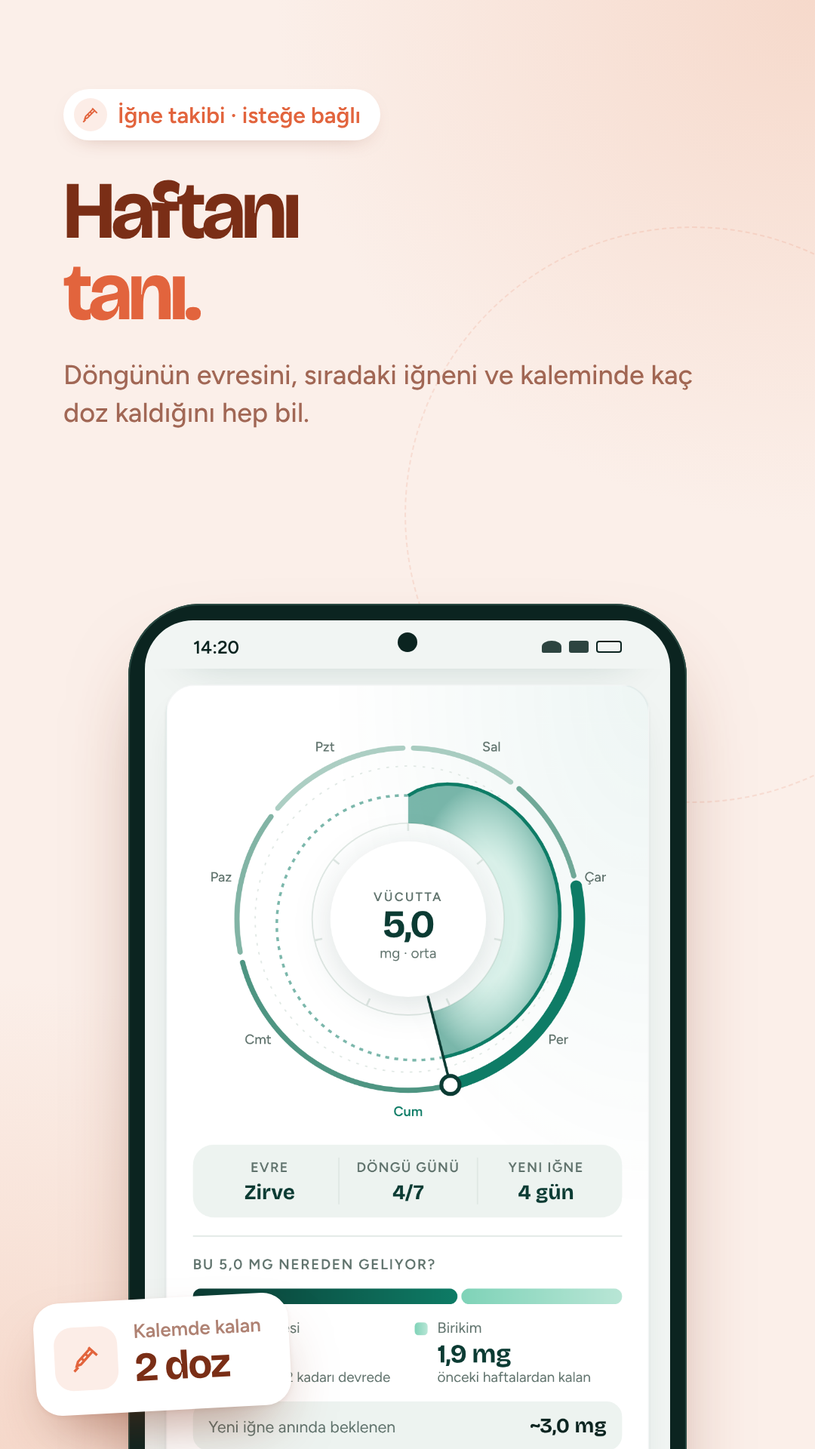
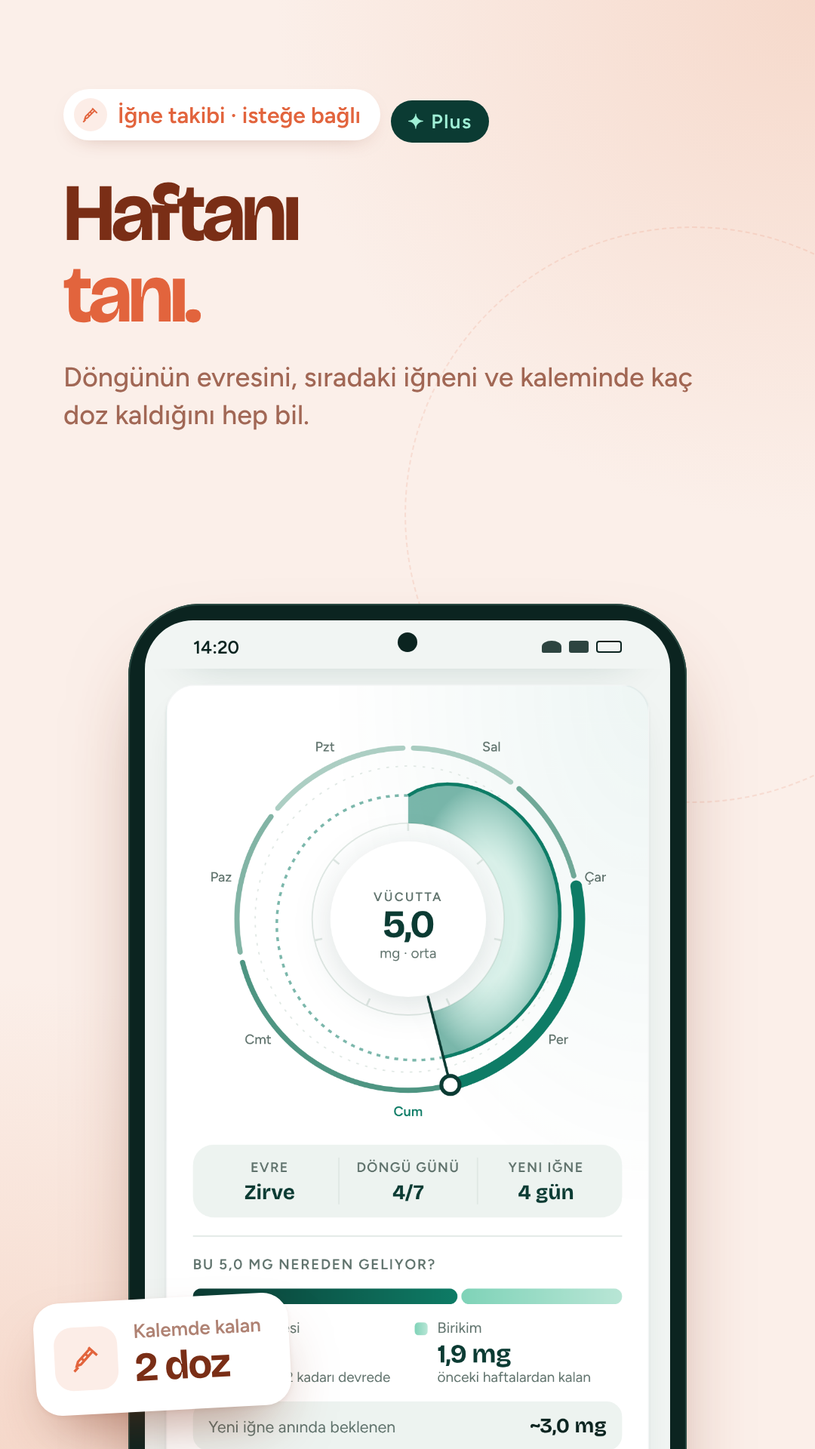
Plus: ilk 14 gün tüm özellikler açık; döngüde mg, birikim ve evre ipuçları Plus; tanıtımda Plus işareti
Claude-Session: https://claude.ai/code/session_01ERT3WxHgY3bECbR2LgZad1

diff --git a/www/index.html b/www/index.html
@@ -899,7 +899,12 @@ const PLUS_ID="hafif_plus";
 const PLANS=[{k:"aylik",n:"Aylık",p:"99,99 ₺",m:"/ ay",sub:"her ay yenilenir",mo:1},{k:"uc-aylik",n:"3 aylık",p:"229,99 ₺",m:"76,66 ₺ / ay",sub:"%23 tasarruf",mo:3},{k:"yillik",n:"Yıllık",p:"499,99 ₺",m:"41,67 ₺ / ay",sub:"%58 tasarruf",mo:12,best:true}];
 const NATIVE=()=>!!(window.Capacitor&&window.Capacitor.isNativePlatform&&window.Capacitor.isNativePlatform());
 let plusOwned=(()=>{try{return localStorage.getItem("hf-plus")==="1"}catch(e){return false}})();
-function PLUS(){return NATIVE()?plusOwned:!S.profile.pvFree}
+/* ilk 14 gün Plus özellikleri herkese açık (ödeme bilgisi istenmez) */
+const TRIAL_DAYS=14;
+function plusSince(){const P=S.profile;if(!P.since)P.since=P.disclaimer||today();return P.since}
+const trialLeft=()=>Math.max(0,TRIAL_DAYS-diffDays(plusSince(),today()));
+function PLUS(){return NATIVE()?(plusOwned||trialLeft()>0):!S.profile.pvFree}
+function trialEndCheck(){const P=S.profile;if(!NATIVE()||plusOwned||!P.onboarded||trialLeft()>0||P.trialEndSeen)return;P.trialEndSeen=today();save();setTimeout(()=>{if(!$("#onb")&&!$("#celeb"))openPaywall("trialEnd")},1800)}
 const IAP=()=>window.CdvPurchase&&window.CdvPurchase.store||null;
 function iapInit(){
   const st=IAP();if(!st||st.__hf)return;st.__hf=1;const C=window.CdvPurchase;
@@ -930,9 +935,10 @@ function openPaywall(src){
   closePaywall();if(PLUS()&&NATIVE())return;iapInit();
   const d=document.createElement("div");d.id="paywall";d.setAttribute("role","dialog");d.setAttribute("aria-modal","true");d.setAttribute("aria-label","Hafif Plus");
   const c=pwCta();
-  d.innerHTML=`<div class="pwtop"><button type="button" class="pwx" id="pwX" aria-label="Kapat">✕</button><span class="pwk">✦ Hafif Plus</span><h1>Kilo vermenin<br>en hafif yolu.</h1><p>Tüm grafikler, doktor raporu ve yan etki analizi tek abonelikte.</p></div>
+  d.innerHTML=`<div class="pwtop"><button type="button" class="pwx" id="pwX" aria-label="Kapat">✕</button><span class="pwk">✦ Hafif Plus</span><h1>Kilo vermenin<br>en hafif yolu.</h1><p>${src==="trialEnd"?"14 günlük ücretsiz Plus dönemin bitti. Vücuttaki ilaç düzeyi, tüm grafikler ve doktor raporu için devam et.":"İlaç düzeyi, tüm grafikler, doktor raporu ve yan etki analizi tek abonelikte."}</p></div>
     <div class="pwb">
       <div class="pwf">
+        ${SHOTS()?`<div><i style="background:var(--shot-soft)">💉</i><span>Vücuttaki ilaç düzeyi<br><small>Tahmini mg, birikim ve tüm evrelerin ipuçları</small></span></div>`:""}
         <div><i style="background:var(--accent-soft)">📈</i><span>Kilo değişiminin tüm grafikleri<br><small>İğne, haftalık, trend, ilaç düzeyi ve yağ</small></span></div>
         <div><i style="background:var(--accent-soft)">📄</i><span>Doktor için PDF rapor<br><small>Kilo, doz, yan etki ve ölçüler tek dosyada</small></span></div>
         <div><i style="background:var(--shot-soft)">🧭</i><span>Yan etki analizi<br><small>Hangi gün, hangi belirti yoğunlaşıyor</small></span></div>
@@ -953,10 +959,12 @@ function openPaywall(src){
   $("#pwRestore").addEventListener("click",async()=>{const st=IAP();if(!st){toast(NATIVE()?"Google Play'e bağlanılamadı":"Bu görünümde satın alma yok");return}await st.restorePurchases().catch(()=>{});toast(st.owned(PLUS_ID)?"Hafif Plus geri yüklendi":"Bu hesapta etkin bir Hafif Plus aboneliği bulunamadı")});
   $("#pwManage").addEventListener("click",()=>{const st=IAP();if(st&&st.manageSubscriptions)st.manageSubscriptions().catch(()=>{});else window.open("https://play.google.com/store/account/subscriptions","_blank")});
 }
+document.addEventListener("click",e=>{const b=e.target.closest&&e.target.closest("[data-plus]");if(b){e.stopPropagation();e.preventDefault();openPaywall("kilit")}},true);
 const plock=(html,title,sub)=>`<div class="plock"><div class="pbl" aria-hidden="true">${html}</div><div class="pov"><b>${title}</b><span>${sub}</span><button type="button" class="plusbtn" data-plus>✦ Plus'a geç</button></div></div>`;
 function plusCard(){
+  if(NATIVE()&&!plusOwned&&trialLeft()>0) return `<button type="button" class="plcard" data-plus><span class="st">✦</span><span style="flex:1"><b>Plus özellikleri açık · ${trialLeft()} gün</b><small>İlk ${TRIAL_DAYS} gün her şey ücretsiz. Sonrası için abonelik seçeneklerine bak.</small></span><svg viewBox="0 0 24 24" width="18" height="18" fill="none" stroke="currentColor" stroke-width="2" stroke-linecap="round"><path d="M9 6l6 6-6 6"/></svg></button>`;
   if(PLUS()&&NATIVE()) return `<button type="button" class="plcard" id="plManage"><span class="st">✦</span><span style="flex:1"><b>Hafif Plus aktif</b><small>Teşekkürler! Aboneliğini Google Play'den yönetebilirsin.</small></span></button>`;
-  if(!NATIVE()) return `<div class="card" style="display:flex;flex-direction:column;gap:10px"><div><h2>Hafif Plus <span class="ptag">Önizleme</span></h2><span class="muted" style="font-size:13px">Claude'da tüm Plus özellikleri açık. Android'deki ücretsiz görünümü ve ödeme ekranını buradan deneyebilirsin.</span></div>
+  if(!NATIVE()) return `<div class="card" style="display:flex;flex-direction:column;gap:10px"><div><h2>Hafif Plus <span class="ptag">Önizleme</span></h2><span class="muted" style="font-size:13px">Claude'da tüm Plus özellikleri açık. Android'de ilk ${TRIAL_DAYS} gün her şey açık, sonra Plus alanları kilitlenir; o görünümü ve ödeme ekranını buradan deneyebilirsin.</span></div>
     <label class="sw" style="padding:2px 0"><span><b>Ücretsiz sürümü göster</b><small>kilitli alanlar bulanık görünür</small></span><input type="checkbox" id="pvFree" ${S.profile.pvFree?"checked":""}><i></i></label>
     <button type="button" class="btn ghost" data-plus>Ödeme ekranını aç</button></div>`;
   return `<button type="button" class="plcard" data-plus><span class="st">✦</span><span style="flex:1"><b>Hafif Plus'a geç</b><small>Tüm grafikler, doktor raporu ve yan etki analizi</small></span><svg viewBox="0 0 24 24" width="18" height="18" fill="none" stroke="currentColor" stroke-width="2" stroke-linecap="round"><path d="M9 6l6 6-6 6"/></svg></button>`;
@@ -987,7 +995,7 @@ function render(){
   if(!$("#mdefs").firstChild)$("#mdefs").innerHTML=medalDefs();
   const mt=$("#mtrack"),nn=mt&&mt.querySelector(".next");if(nn)mt.scrollLeft=nn.offsetLeft-mt.clientWidth/2+nn.clientWidth/2;
   if(tab==="ozet")setTimeout(checkCelebrate,450);
-  maybeOnboard();
+  maybeOnboard(); trialEndCheck();
   if(loaded&&HP())syncHealth();
   if(loaded&&LN()&&!remT)remQueue();
   if(tab==="adim"&&HP()&&!HOURS)syncHealth(true);
@@ -2322,7 +2330,7 @@ function nextTxt(X){if(!X.P.next)return "Sonraki iğne planlanmadı";const l=X.l
 function cycleHtml(vv){
   const cycV=vv||"kadran";
   const X=cycData(); if(!X) return "";
-  const {I,P,lv,peak,cur,state}=X, AN=c=>ANIM?c:"", sel=selPhase??I.cur, ph=PHASES[I.cur], mgT=n=>n.toLocaleString("tr-TR",{minimumFractionDigits:1,maximumFractionDigits:1});
+  const {I,P,lv,peak,cur,state}=X, AN=c=>ANIM?c:"", sel=selPhase??I.cur, ph=PHASES[I.cur], PL=PLUS(), mgT=n=>PL?n.toLocaleString("tr-TR",{minimumFractionDigits:1,maximumFractionDigits:1}):"–";
   let body="";
   if(cycV==="kadran"){
     const W=320,cx=160,cy=160,R0=74,AMP=44,span=I.tn-I.t0,ang=t=>-Math.PI/2+2*Math.PI*(t-I.t0)/span,pt=(t,r)=>[cx+Math.cos(ang(t))*r,cy+Math.sin(ang(t))*r];
@@ -2337,30 +2345,33 @@ function cycleHtml(vv){
       arcs+=`<g class="parc" data-cph="${i}"><path d="M${x1} ${y1} A${r} ${r} 0 ${lg} 1 ${x2} ${y2}" fill="none" stroke="transparent" stroke-width="22"/><path d="M${x1} ${y1} A${r} ${r} 0 ${lg} 1 ${x2} ${y2}" fill="none" stroke="${phCol(i)}" stroke-width="${i===sel?9:i===I.cur?6:4}" stroke-linecap="round" ${i===sel&&i!==I.cur?'stroke-opacity=".95"':""}/></g>`});
     const [hx,hy]=pt(P.now,R0+AMP+14),[ix,iy]=pt(P.now,R0-12);
     body=`<div class="kadran"><svg viewBox="0 0 ${W} ${W}" width="100%" style="max-width:320px;display:block;margin:0 auto" aria-hidden="true">
-      <defs><radialGradient id="kw" cx="50%" cy="50%" r="50%"><stop offset=".45" stop-color="#7FD3B8" stop-opacity=".25"/><stop offset="1" stop-color="#0E7C66" stop-opacity=".55"/></radialGradient></defs>
+      <defs><filter id="kbl"><feGaussianBlur stdDeviation="5"/></filter><radialGradient id="kw" cx="50%" cy="50%" r="50%"><stop offset=".45" stop-color="#7FD3B8" stop-opacity=".25"/><stop offset="1" stop-color="#0E7C66" stop-opacity=".55"/></radialGradient></defs>
       <circle cx="${cx}" cy="${cy}" r="${R0+AMP}" fill="none" stroke="var(--line)" stroke-dasharray="2 5"/>
       <circle cx="${cx}" cy="${cy}" r="${R0}" fill="none" stroke="var(--line)"/>
       ${arcs}${ticks}${labels}
-      <path class="${AN("fade")}" d="${area(pa)}" fill="url(#kw)"/>
+      <g ${PL?"":'filter="url(#kbl)" opacity=".55"'}><path class="${AN("fade")}" d="${area(pa)}" fill="url(#kw)"/>
       <path class="${AN("draw")}" pathLength="1" d="${line(pa)}" fill="none" stroke="var(--accent)" stroke-width="2.6" stroke-linejoin="round"/>
-      ${fu.length?`<path d="${line(fu)}" fill="none" stroke="var(--accent)" stroke-width="2" stroke-dasharray="3 4" opacity=".55"/>`:""}
+      ${fu.length?`<path d="${line(fu)}" fill="none" stroke="var(--accent)" stroke-width="2" stroke-dasharray="3 4" opacity=".55"/>`:""}</g>
       <line x1="${ix}" y1="${iy}" x2="${hx}" y2="${hy}" stroke="var(--head)" stroke-width="2" stroke-linecap="round"/>
       <circle cx="${hx}" cy="${hy}" r="7" fill="var(--surface)" stroke="var(--head)" stroke-width="3"/>
       <circle cx="${cx}" cy="${cy}" r="${R0-14}" fill="var(--surface)" style="filter:drop-shadow(0 6px 14px rgba(11,59,51,.14))"/>
-      <text x="${cx}" y="${cy-14}" text-anchor="middle" font-size="9.5" letter-spacing="1.4" font-weight="700" fill="var(--muted)" font-family="Figtree, sans-serif">VÜCUTTA</text>
+      ${PL?`<text x="${cx}" y="${cy-14}" text-anchor="middle" font-size="9.5" letter-spacing="1.4" font-weight="700" fill="var(--muted)" font-family="Figtree, sans-serif">VÜCUTTA</text>
       <text x="${cx}" y="${cy+14}" text-anchor="middle" font-size="30" font-weight="700" letter-spacing="-1" fill="var(--head)" font-family="Bricolage Grotesque, sans-serif">${mgT(cur)}</text>
-      <text x="${cx}" y="${cy+30}" text-anchor="middle" font-size="11" fill="var(--muted)" font-family="Figtree, sans-serif">mg · ${state.toLocaleLowerCase("tr-TR")}</text>
+      <text x="${cx}" y="${cy+30}" text-anchor="middle" font-size="11" fill="var(--muted)" font-family="Figtree, sans-serif">mg · ${state.toLocaleLowerCase("tr-TR")}</text>`:`<text x="${cx}" y="${cy-12}" text-anchor="middle" font-size="9.5" letter-spacing="1.4" font-weight="700" fill="var(--muted)" font-family="Figtree, sans-serif">EVRE</text>
+      <text x="${cx}" y="${cy+12}" text-anchor="middle" font-size="22" font-weight="700" letter-spacing="-.5" fill="var(--head)" font-family="Bricolage Grotesque, sans-serif">${ph.k}</text>
+      <g data-plus style="cursor:pointer"><rect x="${cx-34}" y="${cy+20}" width="68" height="20" rx="10" fill="rgba(201,160,74,.16)"/><text x="${cx}" y="${cy+34}" text-anchor="middle" font-size="10" font-weight="700" letter-spacing=".6" fill="#B08A35" font-family="Figtree, sans-serif">✦ mg · PLUS</text></g>`}
     </svg></div>
     <div class="cinfo"><div><span>Evre</span><b>${ph.k}</b></div><div><span>Döngü günü</span><b>${Math.min(I.days,diffDays(P.last.date,today())+1)}/${I.days}</b></div><div><span>Yeni iğne</span><b>${X.left==null?"–":X.left>1?X.left+" gün":X.left===1?"Yarın":"Bugün"}</b></div></div>
     ${(()=>{const dose=doseMg(P.last),fl=one(dose,(P.now-shotTs(P.last))/864e5),rest=Math.max(0,cur-fl),tot=Math.max(.01,cur),a=fl/tot*100,act=dose?Math.round(fl/dose*100):0;
-      return `<div class="mix"><span class="eyebrow">Bu ${mgT(cur)} mg nereden geliyor?</span>
+      const mixH=`<div class="mix"><span class="eyebrow">Bu ${mgT(cur)} mg nereden geliyor?</span>
         <div class="mixbar" role="img" aria-label="Son iğneden ${mgT(fl)} mg, öncekilerden ${mgT(rest)} mg"><i class="m1 ${AN("gx")}" style="width:${a}%"></i><i class="m2 ${AN("gx")}" style="width:${100-a}%;animation-delay:.15s"></i></div>
         <div class="mixl">
           <div><i class="m1"></i><div><span>${fmtShort(P.last.date)} iğnesi</span><b>${mgT(fl)} mg</b><em>${esc(P.last.dose??"?")} mg'ın %${act} kadarı devrede</em></div></div>
           <div><i class="m2"></i><div><span>Birikim</span><b>${mgT(rest)} mg</b><em>önceki haftalardan kalan</em></div></div>
         </div>
         ${X.before!=null?`<div class="mixn"><span>Yeni iğne anında beklenen</span><b>~${mgT(X.before)} mg</b></div>`:""}
-      </div>
+      </div>`;
+      return (PL?mixH:plock(mixH.replace(/–/g,"3,1"),"Vücuttaki ilaç düzeyi Plus'ta","Tahmini mg'ı, son iğnenin ve birikimin payını, yeni iğnede beklenen düzeyi gör."))+`
       <details class="how"><summary>Hesap mantığı</summary>
         <p>Hafif her iğneyi ayrı ayrı izler ve hepsini toplar. Her doz kana yavaşça karışır, yaklaşık 36 saatte en yüksek noktasına ulaşır, sonra her 5 günde yarıya iner. Eski dozlar tamamen sıfırlanmadığı için haftalar boyunca küçük bir birikim oluşur.</p>
         <p>Rakamlar bir ortalamaya dayanan tahmindir, kan tahlili sonucu değildir. Kadrandaki kesikli çizgi, yeni iğneyi planlanan gün ve aynı dozla yaparsan beklenen yolu gösterir.</p></details>`})()}`;
@@ -2372,7 +2383,7 @@ function cycleHtml(vv){
       if(i===I.cur)band+=`<text x="${(a+b)/2}" y="${H-8}" text-anchor="middle" font-size="10.5" font-weight="700" fill="var(--head)" font-family="Figtree, sans-serif">${p.k}</text>`});
     const shots=P.past.concat(P.next?[P.next]:[]).filter(s=>shotTs(s)>=t0&&shotTs(s)<=t1).map(s=>{const X=x(shotTs(s)),fut=shotTs(s)>P.now;return `<g transform="translate(${X} ${H-B+4})"><path d="M0 -5 L5 0 L0 5 L-5 0Z" fill="${fut?"var(--surface)":"var(--head)"}" stroke="var(--head)" stroke-width="1.5"/></g>`}).join("");
     const nx=x(P.now);
-    body=`<div class="gtop"><div><span class="eyebrow">İlaç dalgası</span><div class="gstate">${state}<small>${mgT(cur)} mg</small></div></div><div class="gnext"><span>Sonraki iğne</span><b>${X.left==null?"–":X.left>1?X.left+" gün":X.left===1?"Yarın":"Bugün"}</b><em>${P.next?fmtShort(P.next.date)+" "+shotTime(P.next):""}</em></div></div>
+    body=`<div class="gtop"><div><span class="eyebrow">İlaç dalgası</span><div class="gstate">${state}${PL?`<small>${mgT(cur)} mg</small>`:""}</div></div><div class="gnext"><span>Sonraki iğne</span><b>${X.left==null?"–":X.left>1?X.left+" gün":X.left===1?"Yarın":"Bugün"}</b><em>${P.next?fmtShort(P.next.date)+" "+shotTime(P.next):""}</em></div></div>
       <svg class="chart" viewBox="0 0 ${W} ${H}" aria-hidden="true" style="overflow:visible"><defs><linearGradient id="gw" x1="0" y1="0" x2="0" y2="1"><stop offset="0" stop-color="#2BB38F" stop-opacity=".45"/><stop offset="1" stop-color="#2BB38F" stop-opacity="0"/></linearGradient>
         <linearGradient id="gn" x1="0" y1="0" x2="0" y2="1"><stop offset="0" stop-color="#0B3B33" stop-opacity="0"/><stop offset=".3" stop-color="#0B3B33" stop-opacity=".9"/><stop offset="1" stop-color="#0B3B33" stop-opacity="0"/></linearGradient></defs>
         <line x1="0" x2="${W}" y1="${H-B+4}" y2="${H-B+4}" stroke="var(--line)"/>
@@ -2389,9 +2400,9 @@ function cycleHtml(vv){
     for(let i=0;i<nd;i++){const a=I.t0+i*864e5,b=a+864e5;let mx=0;for(let k=0;k<=12;k++)mx=Math.max(mx,lv(a+(b-a)*k/12));
       const mid=(a+b)/2,phi=I.ends.findIndex(e=>(mid-I.t0)/864e5<e);cols.push({a,mx,ph:phi<0?5:phi,isT:ymd(a)===today()||ymd(b-1)===today()&&P.now>=a&&P.now<b,fut:a>P.now,past:b<=P.now})}
     const H=130;
-    body=`<div class="gtop"><div><span class="eyebrow">Döngünün ${Math.min(I.days,diffDays(P.last.date,today())+1)}. günü</span><div class="gstate">${ph.k}<small>${mgT(cur)} mg</small></div></div><div class="gnext"><span>Sonraki iğne</span><b>${X.left==null?"–":X.left>1?X.left+" gün":X.left===1?"Yarın":"Bugün"}</b><em>${P.next?fmtShort(P.next.date)+" "+shotTime(P.next):""}</em></div></div>
+    body=`<div class="gtop"><div><span class="eyebrow">Döngünün ${Math.min(I.days,diffDays(P.last.date,today())+1)}. günü</span><div class="gstate">${ph.k}${PL?`<small>${mgT(cur)} mg</small>`:`<small class="ptag" data-plus style="cursor:pointer">✦ mg · Plus</small>`}</div></div><div class="gnext"><span>Sonraki iğne</span><b>${X.left==null?"–":X.left>1?X.left+" gün":X.left===1?"Yarın":"Bugün"}</b><em>${P.next?fmtShort(P.next.date)+" "+shotTime(P.next):""}</em></div></div>
       <div class="dcols">${cols.map((c,i)=>{const h=Math.max(8,c.mx/peak*H),d=new Date(c.a);return `<div class="dcol${c.isT?" today":""}${c.fut?" fut":""}">
-        <span class="dmg">${mgT(c.mx)}</span>
+        <span class="dmg">${PL?mgT(c.mx):""}</span>
         <div class="dtube" style="height:${H}px">${i===0?`<span class="dshot" title="İğne günü">${penIcon().replace('width="26" height="26"','width="12" height="12"')}</span>`:""}<i class="${AN("gb gbp")}" style="height:${h}px;animation-delay:${i*70}ms;background:${c.fut?"transparent":`linear-gradient(${phCol(c.ph)},color-mix(in oklab,${phCol(c.ph)} 60%,#0B3B33))`}"></i></div>
         <b class="dday">${DAYN[d.getDay()]}</b><span class="dph">${PH_SHORT[c.ph]}</span></div>`}).join("")}</div>`;
   }
@@ -2399,8 +2410,8 @@ function cycleHtml(vv){
   const sp=PHASES[sel], isCur=sel===I.cur;
   const phx=`<div class="phsel" role="tablist" aria-label="Evreler">${PHASES.map((p,i)=>`<button type="button" role="tab" data-cph="${i}" aria-selected="${i===sel}" class="${i===I.cur?"cur":""}"><i style="background:${phCol(i)}"></i><span>${p.k}</span></button>`).join("")}</div>
     <div class="phd" id="phd"><div class="phdh"><div><span class="eyebrow" style="color:${isCur?"var(--accent)":"var(--muted)"}">${isCur?"Bugün · ":""}Evre ${sel+1}/6</span><h3>${sp.k}</h3></div><span class="phdr">${rngP(sel)}${isCur?"":sel<I.cur?" · tamamlandı":" · sırada"}</span></div>
-      <p>${isCur&&I.overdue?"Yeni iğnenin zamanı geldi ve geçti. Seviye düşmeye devam ediyor. İğneni yaptıysan Hafif'e eklemeyi unutma.":sp.txt}</p>
-      <ul class="tips">${sp.tips.map(t=>`<li>${t}</li>`).join("")}</ul>
+      ${(()=>{const tx=`<p>${isCur&&I.overdue?"Yeni iğnenin zamanı geldi ve geçti. Seviye düşmeye devam ediyor. İğneni yaptıysan Hafif'e eklemeyi unutma.":sp.txt}</p>`,tp=`<ul class="tips">${sp.tips.map(t=>`<li>${t}</li>`).join("")}</ul>`;
+        return PL?tx+tp:isCur?tx+plock(tp,"Evre ipuçları Plus'ta","Bu evrede ne yiyip nasıl hareket edeceğini gör."):plock(tx+tp,"Tüm evreler Plus'ta","Döngünün her evresini ve ipuçlarını önceden gör.")})()}
       ${isCur?"":`<button type="button" class="linkbtn" data-cph="${I.cur}" style="align-self:flex-start;padding:0">Bugünkü evreye dön (${PHASES[I.cur].k})</button>`}</div>`;
   return `<div class="card cycard cv-${cycV}">${body}${phx}${cycDots()}</div>`;
 }
@@ -3048,7 +3059,7 @@ function openOnboard(){
 function finishOnboard(){
   obCollect();
   const P=S.profile, k=num(OB.kg), g=num(OB.goal), h=num(OB.h), age=num(OB.age), pr=num(OB.prot), wa=num(OB.water);
-  P.onboarded=true; P.usesShots=OB.uses!==false; P.disclaimer=today();
+  P.onboarded=true; P.usesShots=OB.uses!==false; P.disclaimer=today(); P.since=P.since||today();
   if(P.usesShots){
     P.drug=(OB.drug||"").trim()||null; P.intervalDays=P.intervalDays||7;
     const dose=OB.dose==="x"?num(OB.doseX):num(OB.dose);
@@ -3142,7 +3153,6 @@ function bindView(){
   v.querySelectorAll("[data-edit-shot]").forEach(b=>b.addEventListener("click",()=>openSheet("shot",b.dataset.editShot)));
   v.querySelectorAll("svg[data-sid]").forEach(bindScrub);
   bindToday(); bindIgne(); bindKilo();
-  v.querySelectorAll("[data-plus]").forEach(b=>b.addEventListener("click",e=>{e.stopPropagation();openPaywall("kilit")}));
   const pf=$("#pvFree");if(pf)pf.addEventListener("change",()=>{S.profile.pvFree=pf.checked;save();render()});
   const pm=$("#plManage");if(pm)pm.addEventListener("click",()=>{const st=IAP();if(st&&st.manageSubscriptions)st.manageSubscriptions().catch(()=>{})});
   v.querySelectorAll("[data-theme-set]").forEach(b=>b.addEventListener("click",()=>{S.profile.theme=b.dataset.themeSet;save();render()}));

diff --git a/magaza/kaynak/tanitim-ekranlari.js b/magaza/kaynak/tanitim-ekranlari.js
@@ -35,9 +35,9 @@ const R = {
 
 const EKRANLAR = [
   { ad: '01-kilo', renk: 'kilo', ikon: ikon('kilo'), etiket: 'Kilo takibi', baslik: ['Her tartı', 'bir adım.'], alt: 'Verdiğin kiloyu, hızını ve hedefe kalan yolu gör; her eşikte bir rozet kazan.', ekran: '01-ozet.png', kart: ['Yeni rozet', '%5 vücut ağırlığı'], kartIkon: ROZET, kartRenk: 'rozet', kartYer: 'sag' },
-  { ad: '02-igne', renk: 'igne', ikon: ikon('igne'), etiket: 'İğne takibi · isteğe bağlı', baslik: ['Haftanı', 'tanı.'], alt: 'Döngünün evresini, sıradaki iğneni ve kaleminde kaç doz kaldığını hep bil.', ekran: '02-dongu.png', kart: ['Kalemde kalan', '2 doz'], kartYer: 'sol', kartTop: 1720 },
+  { ad: '02-igne', renk: 'igne', ikon: ikon('igne'), etiket: 'İğne takibi · isteğe bağlı', baslik: ['Haftanı', 'tanı.'], alt: 'Döngünün evresini, sıradaki iğneni ve kaleminde kaç doz kaldığını hep bil.', plus: 1, ekran: '02-dongu.png', kart: ['Kalemde kalan', '2 doz'], kartYer: 'sol', kartTop: 1720 },
   { ad: '03-yan-etki', renk: 'igne', ikon: NABIZ, etiket: 'Yan etki günlüğü', baslik: ['Yan etkilerini', 'öngör.'], alt: 'Belirtilerini kaydet; iğneden sonraki hangi günlerde yoğunlaştığını gör.', ekran: '11-yan-etkiler.png', kart: ['En yoğun gün', 'İğneden 1 gün sonra'], kartYer: 'sag', kartTop: 1760 },
-  { ad: '04-rapor', renk: 'kilo', ikon: RAPOR, etiket: 'Doktor raporu', baslik: ['Kontrole', 'hazır git.'], alt: 'Kilo, doz, yan etkiler ve vücut ölçülerin tek PDF raporda; doktoruna telefondan göster.', sayfalar: ['rapor-1.png', 'rapor-2.png'], kart: ['Bel çevresi', '−9 cm'], kartYer: 'sol', kartTop: 1640 },
+  { ad: '04-rapor', renk: 'kilo', ikon: RAPOR, etiket: 'Doktor raporu', baslik: ['Kontrole', 'hazır git.'], alt: 'Kilo, doz, yan etkiler ve vücut ölçülerin tek PDF raporda; doktoruna telefondan göster.', plus: 1, sayfalar: ['rapor-1.png', 'rapor-2.png'], kart: ['Bel çevresi', '−9 cm'], kartYer: 'sol', kartTop: 1640 },
   { ad: '05-adim', renk: 'adim', ikon: ADIMI, etiket: 'Adım sayar', baslik: ['Her adım', 'sayılır.'], alt: 'Health Connect ile adımların ve akıllı tartın kendiliğinden gelir.', ekran: '10-adimlar.png', kart: ['Bu hafta ortalama', '8.240 adım'], kartYer: 'sag', kartTop: 1690 },
   { ad: '06-protein-su', renk: 'su', ikon: ikon('besin'), etiket: 'Protein ve su', baslik: ['Protein ve su', 'hep hedefte.'], alt: 'Protein ve su takibi tek ekranda: yediklerin hedefini doldurur, suyu tek dokunuşla eklersin.', ekran: '07-protein-su.png', kart: ['Bugün', '74 g · 1.750 ml'], kartYer: 'sol' },
 ];
@@ -82,13 +82,14 @@ function sayfa(e) {
   .pdf.p1{left:70px;top:760px;transform:rotate(-4deg);z-index:2}.pdf.p2{left:330px;top:840px;transform:rotate(5deg)}
   .pdfetk{position:absolute;right:70px;top:700px;z-index:4;display:flex;align-items:center;gap:14px;background:${r.koyu};color:#fff;border-radius:99px;padding:14px 28px 14px 14px;font:600 26px Figtree;transform:rotate(3deg)}
   .pdfetk b{background:#E2643D;border-radius:99px;padding:6px 16px;font:700 24px Figtree}
+  .pl{display:inline-block;margin-left:14px;vertical-align:middle;background:#0B3B33;color:#9FF0D6;border-radius:99px;padding:12px 22px;font:700 26px Figtree;letter-spacing:.06em}
   .gz{position:absolute;left:84px;right:84px;top:720px;display:flex;flex-direction:column;gap:26px}
   .gz div{display:flex;align-items:center;gap:30px;background:#fff;border-radius:40px;padding:36px 40px;box-shadow:0 30px 60px -36px ${r.koyu}77}
   .gz i{flex:none;width:96px;height:96px;border-radius:28px;background:${r.acik};color:${r.ana};padding:22px;box-sizing:border-box}
   .gz b{display:block;font:700 46px "Bricolage Grotesque";letter-spacing:-.02em}
   .gz span{display:block;font:500 30px Figtree;color:${r.koyu}AA;margin-top:4px}
   </style></head><body><div class="s">
-  <div class="ust"><span class="etk"><i>${e.ikon}</i>${e.etiket}</span>
+  <div class="ust"><span class="etk"><i>${e.ikon}</i>${e.etiket}</span>${e.plus ? '<span class="pl">✦ Plus</span>' : ''}
     <h1>${e.baslik[0]}<br><em>${e.baslik[1]}</em></h1><p>${e.alt}</p></div>
   ${telefon}${e.gz || ''}
   </div></body></html>`;

diff --git a/tests/android-smoke.js b/tests/android-smoke.js
@@ -200,9 +200,21 @@ const step = (ad, sonuc, detay) => { report.adimlar.push({ ad, sonuc, detay }); 
     const msg2 = await page.textContent('#dataMsg');
     step('Excel dosyası hata mesajı yok', !msg2, msg2);
 
-    // Hafif Plus: ücretsiz kullanıcıda rapor ödeme ekranını açar; Google Play faturalandırma eklentisi yüklü
+    // Hafif Plus: ilk 14 gün açık → rapor paylaşılır
     const iap = await page.evaluate(() => !!(window.CdvPurchase && window.CdvPurchase.store));
     step('Google Play faturalandırma eklentisi yüklendi', iap);
+    await tap(page, '#exPdf'); await wait(5000);
+    await shot('rapor-paylas-penceresi');
+    const pencere3 = (await device.shell('dumpsys window | grep mCurrentFocus')).toString();
+    step('Ücretsiz dönemde doktor raporu (PDF) → paylaş penceresi', !/hafif\/.*MainActivity/.test(pencere3), pencere3.trim());
+    await device.shell('input keyevent 4'); await wait(1000);
+    // 14 gün geçmiş gibi: Plus alanları kilitlenir, dönem bitince ödeme ekranı bir kez açılır
+    await wait(1000);
+    await page.evaluate(() => { const S = JSON.parse(localStorage.getItem('doz-defteri')); S.profile.since = '2020-01-01'; delete S.profile.trialEndSeen; localStorage.setItem('doz-defteri', JSON.stringify(S)); });
+    await page.reload(); await page.waitForSelector('#view'); await wait(3500);
+    step('Ücretsiz dönem bitince ödeme ekranı bir kez açıldı', await page.evaluate(() => !!document.querySelector('#paywall')));
+    await page.evaluate(() => { const x = document.querySelector('#pwX'); if (x) x.click(); }); await wait(500);
+    await tap(page, '#gearBtn'); await wait(700);
     await tap(page, '#exPdf'); await wait(2500);
     await shot('odeme-ekrani');
     const pw = await page.evaluate(() => ({ acik: !!document.querySelector('#paywall'), planlar: document.querySelectorAll('[data-pw]').length, baslik: (document.querySelector('#paywall h1') || {}).textContent }));
